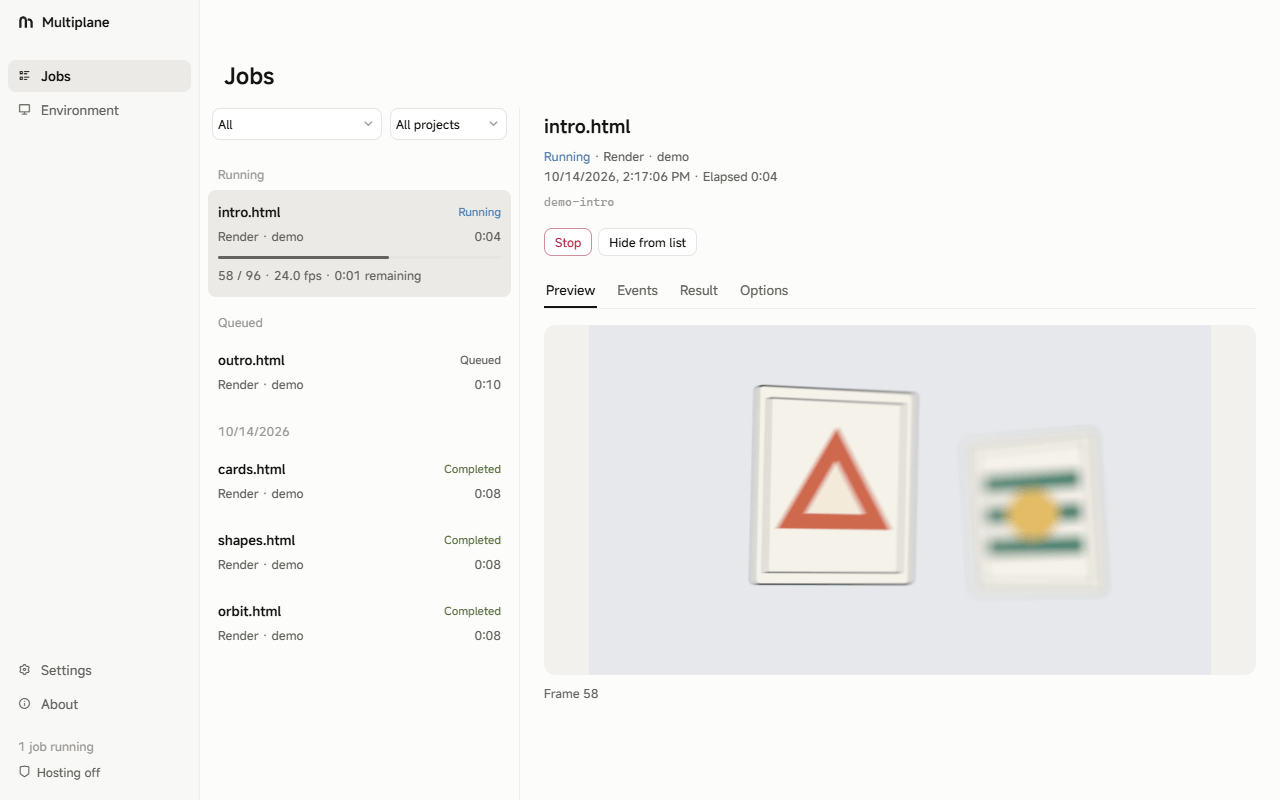
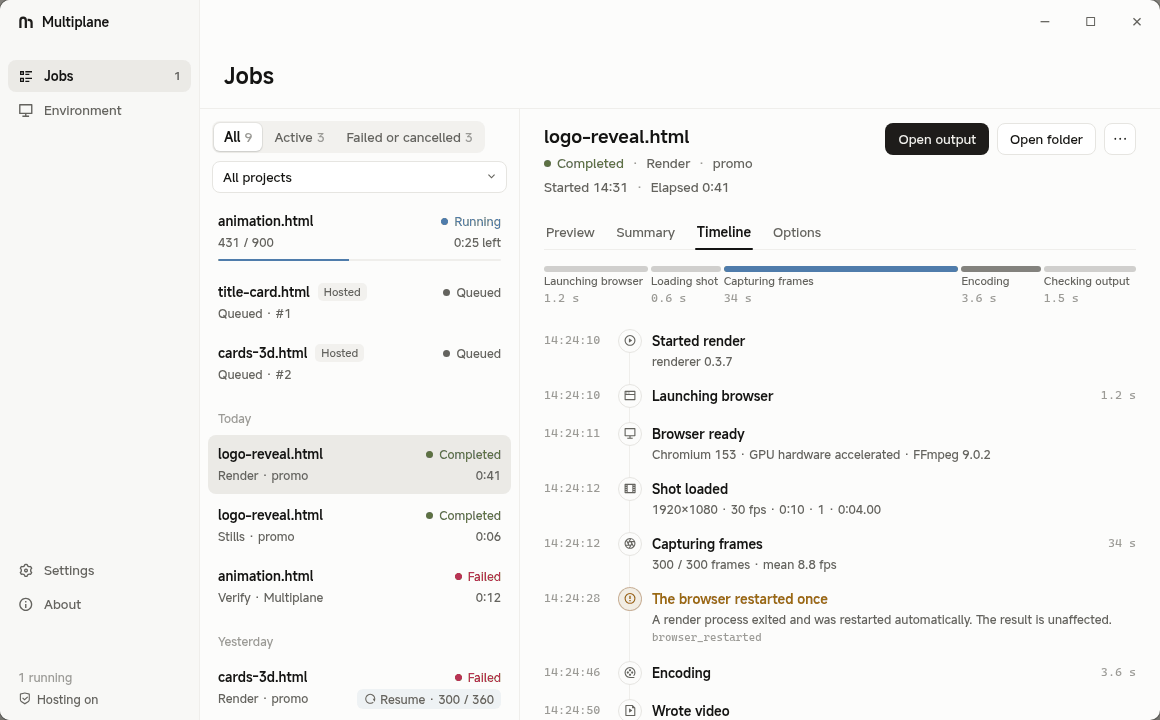
Update README for 0.3.8: resume and stall recovery, job details, tray popover and new screenshots [skip ci]

diff --git a/README.en.md b/README.en.md
@@ -11,7 +11,7 @@ A local, headless HTML video renderer for AI agents. **A shot is an ordinary web
 
 <img src="https://raw.githubusercontent.com/LBEILC/Multiplane/main/docs/images/hero.webp" width="720" alt="3D cards rendered by Multiplane, with depth of field and motion blur">
 
-> Version `0.3.0`. The full test suite passes in CI on Windows, macOS and Linux; Windows has also been verified on a real machine. Interfaces may still change before 1.0.
+> Version `0.3.8` (the latest version is on the [Releases page](https://github.com/LBEILC/Multiplane/releases)). The full test suite passes in CI on Windows, macOS and Linux; Windows has also been verified on a real machine. Interfaces may still change before 1.0.
 
 The name comes from Disney's multiplane camera: flat artwork placed at different depths, photographed frame by frame with real depth of field. Here, this corresponds to layered web content, a 3D card layer, and accumulated depth of field.
 
@@ -133,7 +133,9 @@ For the full contract, patterns that break determinism, and 3D layer usage, see 
 
 Shot paths are relative to the resource root `--root` (the current directory by default). Each run has its own job directory, `out/jobs/<jobId>/`. Without `--out`, artifacts are written there (video, `stills/`, `verify/`), so runs do not overwrite each other. See `artifacts` in the result for the final paths. `--out` sets the output location. An existing target is rejected unless `--overwrite` is given. `render`, `stills`, and `verify` automatically run `lint` before starting and stop on errors. Use `--no-lint` to skip it. `npx multiplane <command> --help` lists all options for that command.
 
-`render` encodes in segments of about 10 seconds and keeps each one on disk as soon as it is done. If a render stops part way (the process is killed, the machine crashes or loses power, the browser keeps crashing, or you stop it), `multiplane resume <job>` skips the segments already encoded, renders the rest and joins them without re-encoding; the frames are identical to an uninterrupted render. A resume keeps all of the original job's options. It is refused (`resume_unavailable`) when a file the shot loaded has changed or the Multiplane, Chromium or FFmpeg version differs, so a film is never joined from mismatched parts. See section 6.1 of the protocol.
+`render` encodes in segments of about 10 seconds and keeps each one on disk as soon as it is done. If a render stops part way (the process is killed, the machine crashes or loses power, the browser keeps crashing, or you stop it), `multiplane resume <job>` skips the segments already encoded, renders the rest and joins them without re-encoding; the frames are identical to an uninterrupted render. A resume keeps all of the original job's options. It is refused (`resume_unavailable`, with the reason) when a file the shot loaded or the audio file has changed, or the Multiplane, Chromium or FFmpeg version, the raster mode or the encoder differs, so a film is never joined from mismatched parts; a different GPU or driver only produces a warning (`resume_renderer_changed`). `multiplane status` reports whether a job can be resumed and how many frames are done. See section 6.1 of the protocol.
+
+A stuck browser does not stall a render forever. If a worker holds frames but delivers none for `max(120 seconds, 10 × the slowest frame so far)`, its browser is closed and relaunched, the frame is rendered again from scratch (with the same pixels), and a `worker_stalled` warning is reported. Each frame is retried at most twice; a third stall ends the job with `browser_crashed`. Segments already encoded are kept, so the job can be resumed.
 
 Common `render` options:
 
@@ -272,20 +274,26 @@ npm install three@0.180.0
 
 <picture>
   <source media="(prefers-color-scheme: dark)" srcset="https://raw.githubusercontent.com/LBEILC/Multiplane/main/docs/images/app-jobs-en-dark.png">
-  <img src="https://raw.githubusercontent.com/LBEILC/Multiplane/main/docs/images/app-jobs-en-light.png" width="800" alt="The Jobs page of the Multiplane desktop app: a running job, a queued job and a live preview frame">
+  <img src="https://raw.githubusercontent.com/LBEILC/Multiplane/main/docs/images/app-jobs-en-light.png" width="800" alt="The Jobs page of the Multiplane desktop app: running, queued and resumable jobs on the left, and the Timeline tab of the selected job on the right, listing how long each phase took and the events">
 </picture>
 
 
-- **Jobs**: list render, stills, and check jobs across projects, show progress and preview frames in real time, view finished videos, contact sheets, and diff images from failed checks, and stop running jobs.
-- **Environment**: check whether the browser, GPU rasterization, FFmpeg, and other requirements are ready. Install and update the Multiplane skill for Claude Code (`~/.claude/skills/`) and Codex (`~/.agents/skills/`), without directly overwriting user modifications.
+- **Jobs**: list render, stills, and check jobs across projects, show progress and preview frames in real time, and stop running jobs. Opening a job shows four tabs:
+  - **Preview**: finished videos play in a frame-accurate player: step one frame at a time, jump between cuts, and read the exact frame number and timecode. Any frame opens in a viewer that zooms to actual pixels, and when a determinism check fails, the reference, actual and difference images can be compared side by side or by flickering between them.
+  - **Summary**: the output, whether it was verified, and the picture, post-processing, performance and environment at a glance.
+  - **Timeline**: how long each phase took, with the events and warnings along the way.
+  - **Options**: the settings the job actually used, in plain words, which can be copied as a command.
+- **Resume**: a failed or stopped render that can continue shows **Resume** with the frames already done, and the new job links back to the original. When resuming is refused, the app explains why, for example which files changed. With hosting on, the app also takes over an agent's `resume` requests.
+- **Tray popover**: on Windows and macOS, clicking the tray icon opens a small panel with running, queued and recently finished jobs. The tray icon and the taskbar button show render progress. Linux keeps the system menu.
+- **Environment**: check whether the browser, GPU rasterization, FFmpeg, and other requirements are ready; on first use, **Install browser** here downloads Chromium. Install and update the Multiplane skill for Claude Code (`~/.claude/skills/`) and Codex (`~/.agents/skills/`), without directly overwriting user modifications.
 - **Settings**: write the user config `config.json` described above.
 - **Hosted renders** (off by default): when turned on in Settings, renders started by an agent are run by the app instead of the agent's session, so they keep going when the session ends. One hosted render runs at a time and the rest wait in a queue. The agent's command and output stay the same, and `multiplane wait <job>` picks a job up again after a session restarts. With hosting on, closing the window keeps the app in the system tray. See section 11 of the protocol.
-- **Updates**: the app checks GitHub for a new release at startup and once a day (can be turned off). On Windows it downloads and installs the update in the app; on macOS and Linux it links to the download page.
+- **Updates**: the app checks GitHub for a new release at startup and once a day (can be turned off). On Windows it downloads and installs the update in the app; on macOS and Linux it links to the download page. The About page lists what changed in each version since the one installed, in the interface language.
 - The interface is in English and Simplified Chinese. It follows the system language and can be switched in Settings.
 
 It communicates with the renderer only through the files and commands in [`docs/protocol.md`](https://github.com/LBEILC/Multiplane/blob/main/docs/protocol.md). It is not required for rendering: agents can render from the command line without it.
 
-Download an installer from the [Releases page](https://github.com/LBEILC/Multiplane/releases). The installers bundle a renderer of the same version, so the app works without a separate Node.js install. That renderer is also available as a command: `multiplane.cmd` in the install directory on Windows, `Multiplane.app/Contents/Resources/bin/multiplane` on macOS, and `Multiplane-<version>-x86_64.AppImage --multiplane-cli` on Linux. The Environment page shows the exact path when `multiplane` is not on PATH. FFmpeg is not bundled (see above), and Chromium is downloaded on first use from the Environment page.
+Download an installer from the [Releases page](https://github.com/LBEILC/Multiplane/releases). The installers bundle a renderer of the same version, so the app works without a separate Node.js install. That renderer is also available as a command: `multiplane.cmd` in the install directory on Windows, `Multiplane.app/Contents/Resources/bin/multiplane` on macOS, and `Multiplane-<version>-x86_64.AppImage --multiplane-cli` on Linux. The Environment page shows the exact path when `multiplane` is not on PATH. FFmpeg is not bundled (see above; install one with libx264 support), and Chromium is downloaded on first use with **Install browser** on the Environment page.
 
 | System | Package | First launch (the packages are not code-signed) |
 |---|---|---|

diff --git a/README.md b/README.md
@@ -11,7 +11,7 @@
 
 <img src="https://raw.githubusercontent.com/LBEILC/Multiplane/main/docs/images/hero.webp" width="720" alt="Multiplane 渲染的三维卡片：景深虚化与运动模糊">
 
-> 当前版本 `0.3.0`。完整测试在 Windows、macOS、Linux 三个平台的 CI 上全部通过；Windows 另在真机上验证过。1.0 之前接口仍可能调整。
+> 当前版本 `0.3.8`（最新版本见 [Releases 页面](https://github.com/LBEILC/Multiplane/releases)）。完整测试在 Windows、macOS、Linux 三个平台的 CI 上全部通过；Windows 另在真机上验证过。1.0 之前接口仍可能调整。
 
 名字来自迪士尼的多层摄影台（multiplane camera）：一层层平面画稿放在不同深度、逐帧拍摄、带真实景深。对应这里的多层网页画面、三维卡片层和累积景深。
 
@@ -133,7 +133,9 @@ Shot.define({
 
 镜头路径相对资源根 `--root`（默认当前目录）。每次运行都有自己的作业目录 `out/jobs/<jobId>/`，不给 `--out` 时产物就写在里面（视频、`stills/`、`verify/`），多次运行互不覆盖；最终路径见结果里的 `artifacts`。`--out` 指定输出位置，目标已存在时会拒绝覆盖，加 `--overwrite` 才替换。`render`、`stills`、`verify` 启动前自动跑 `lint`，有 error 就停下，`--no-lint` 跳过。`npx multiplane <command> --help` 列出该命令的全部参数。
 
-`render` 按约 10 秒一段编码，每段编完就落盘。渲染中途停下（进程被杀、死机、断电、浏览器反复崩溃、手动停止）后，`multiplane resume <job>` 会跳过已经编好的段、只渲剩下的，最后不重新编码地拼成成片，画面与一次渲完的逐帧相同。续传沿用原作业的全部参数；镜头加载过的文件改了，或 Multiplane、Chromium、FFmpeg 版本变了，会拒绝续传（`resume_unavailable`），以免拼出前后不一致的片子。见协议第 6.1 节。
+`render` 按约 10 秒一段编码，每段编完就落盘。渲染中途停下（进程被杀、死机、断电、浏览器反复崩溃、手动停止）后，`multiplane resume <job>` 会跳过已经编好的段、只渲剩下的，最后不重新编码地拼成成片，画面与一次渲完的逐帧相同。续传沿用原作业的全部参数；镜头加载过的文件或音频文件改了，或 Multiplane、Chromium、FFmpeg 的版本、光栅模式、编码器变了，会拒绝续传（`resume_unavailable`，并说明是哪一项），以免拼出前后不一致的片子；只是显卡或驱动不同，则只给出警告（`resume_renderer_changed`）。`multiplane status` 会告诉你一个作业能不能续传、已经渲完多少帧。见协议第 6.1 节。
+
+浏览器卡住时，渲染也不会一直挂着：某个进程拿着帧、却在 `max(120 秒, 此前最慢一帧耗时的 10 倍)` 内一帧都交不出来时，会关掉它的浏览器、重新启动，并把那一帧从头重渲（像素相同），同时报 `worker_stalled` 警告。每一帧最多重试两次，第三次再卡住，作业以 `browser_crashed` 结束；已经编好的段会保留，之后可以用 `resume` 接着渲。
 
 `render` 的常用参数：
 
@@ -272,20 +274,26 @@ npm install three@0.180.0
 
 <picture>
   <source media="(prefers-color-scheme: dark)" srcset="https://raw.githubusercontent.com/LBEILC/Multiplane/main/docs/images/app-jobs-zh-dark.png">
-  <img src="https://raw.githubusercontent.com/LBEILC/Multiplane/main/docs/images/app-jobs-zh-light.png" width="800" alt="Multiplane 桌面软件的作业页：进行中的作业、排队中的作业和实时预览帧">
+  <img src="https://raw.githubusercontent.com/LBEILC/Multiplane/main/docs/images/app-jobs-zh-light.png" width="800" alt="Multiplane 桌面软件的作业页：左边是进行中、排队中和可继续渲染的作业，右边是所选作业的“过程”标签，列出各阶段用时和事件">
 </picture>
 
 
-- **作业**：列出各项目里的渲染、抽帧、检查作业，实时显示进度和预览帧，查看成片、联系表和检查不通过时的差异图，可以停止进行中的作业。
-- **环境**：检查浏览器、GPU 光栅、FFmpeg 等是否就绪；给 Claude Code（`~/.claude/skills/`）和 Codex（`~/.agents/skills/`）安装、更新 Multiplane 的 skill，自己改过的不会被直接覆盖。
+- **作业**：列出各项目里的渲染、抽帧、检查作业，实时显示进度和预览帧，可以停止进行中的作业。点开一个作业，详情分四个标签：
+  - **预览**：成片在逐帧播放器里播放，可以一帧一帧地走、在切点之间跳转，并显示准确的帧号和时间码；任意一帧都能单独打开，放大到实际像素。确定性检查不通过时，参考图、实际图和差异图可以并排看，也可以闪烁对比。
+  - **概览**：产物、成品是否核对过，以及画面、后期、性能、环境一目了然。
+  - **过程**：每个阶段用了多久，以及过程中的事件和警告。
+  - **参数**：用平白的话列出这次作业实际生效的参数，可以复制成命令。
+- **继续渲染**：失败或被停止、又能接着渲的渲染，会显示“继续渲染”和已经完成的帧数；新作业会链回原作业。不能接着渲时（例如镜头用到的文件变了），软件会说明原因。开启托管后，软件也会接管 agent 发起的 `resume`。
+- **托盘弹窗**：在 Windows 和 macOS 上点托盘图标，会打开一个小面板，列出进行中、排队中和最近完成的作业；托盘图标和任务栏按钮会显示渲染进度。Linux 上仍是系统菜单。
+- **环境**：检查浏览器、GPU 光栅、FFmpeg 等是否就绪，首次使用时在这里点“安装浏览器”下载 Chromium；给 Claude Code（`~/.claude/skills/`）和 Codex（`~/.agents/skills/`）安装、更新 Multiplane 的 skill，自己改过的不会被直接覆盖。
 - **设置**：写入上文的用户配置 `config.json`。
 - **托管渲染**（默认关闭）：在设置里开启后，agent 发起的渲染改由软件执行，不再挂在 agent 的会话上，会话结束也会照常做完。一次只执行一个托管渲染，其余排队。agent 的命令和输出不变；会话重启后用 `multiplane wait <job>` 接上之前的作业。开启托管后，关闭窗口时软件留在系统托盘。见协议第 11 节。
-- **更新**：启动时和之后每天检查一次 GitHub 上的新版本（可以关闭）。Windows 上在软件里下载并安装；macOS 和 Linux 上打开下载页。
+- **更新**：启动时和之后每天检查一次 GitHub 上的新版本（可以关闭）。Windows 上在软件里下载并安装；macOS 和 Linux 上打开下载页。“关于”页会按界面语言列出从已安装版本起每个版本的更新内容。
 - 界面有英文和简体中文，默认跟随系统语言，也可以在设置里切换。
 
 它只通过 [`docs/protocol.zh-CN.md`](https://github.com/LBEILC/Multiplane/blob/main/docs/protocol.zh-CN.md) 的文件和命令行与渲染器打交道，不是渲染的必需品：不装它，agent 照样可以用命令行渲染。
 
-从 [Releases 页面](https://github.com/LBEILC/Multiplane/releases) 下载安装包。安装包里带一份同版本的渲染器，不需要另装 Node.js。这份渲染器也可以当命令用：Windows 为安装目录下的 `multiplane.cmd`，macOS 为 `Multiplane.app/Contents/Resources/bin/multiplane`，Linux 为 `Multiplane-<版本>-x86_64.AppImage --multiplane-cli`。PATH 里找不到 `multiplane` 时，环境页会显示完整路径。FFmpeg 不随包提供（见上文），Chromium 在环境页首次使用时下载。
+从 [Releases 页面](https://github.com/LBEILC/Multiplane/releases) 下载安装包。安装包里带一份同版本的渲染器，不需要另装 Node.js。这份渲染器也可以当命令用：Windows 为安装目录下的 `multiplane.cmd`，macOS 为 `Multiplane.app/Contents/Resources/bin/multiplane`，Linux 为 `Multiplane-<版本>-x86_64.AppImage --multiplane-cli`。PATH 里找不到 `multiplane` 时，环境页会显示完整路径。FFmpeg 不随包提供（见上文，需要自己安装一个支持 libx264 的），Chromium 在环境页首次使用时点“安装浏览器”下载。
 
 | 系统 | 安装包 | 首次打开（安装包没有代码签名） |
 |---|---|---|
